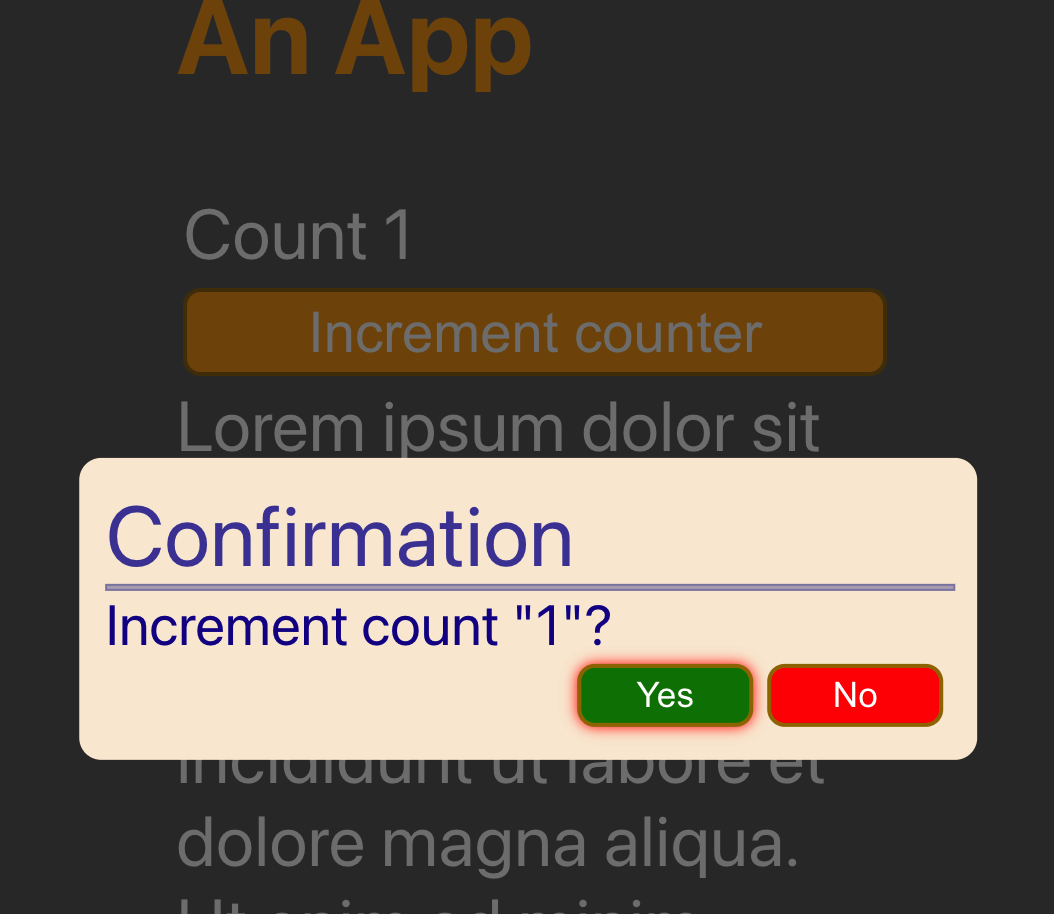
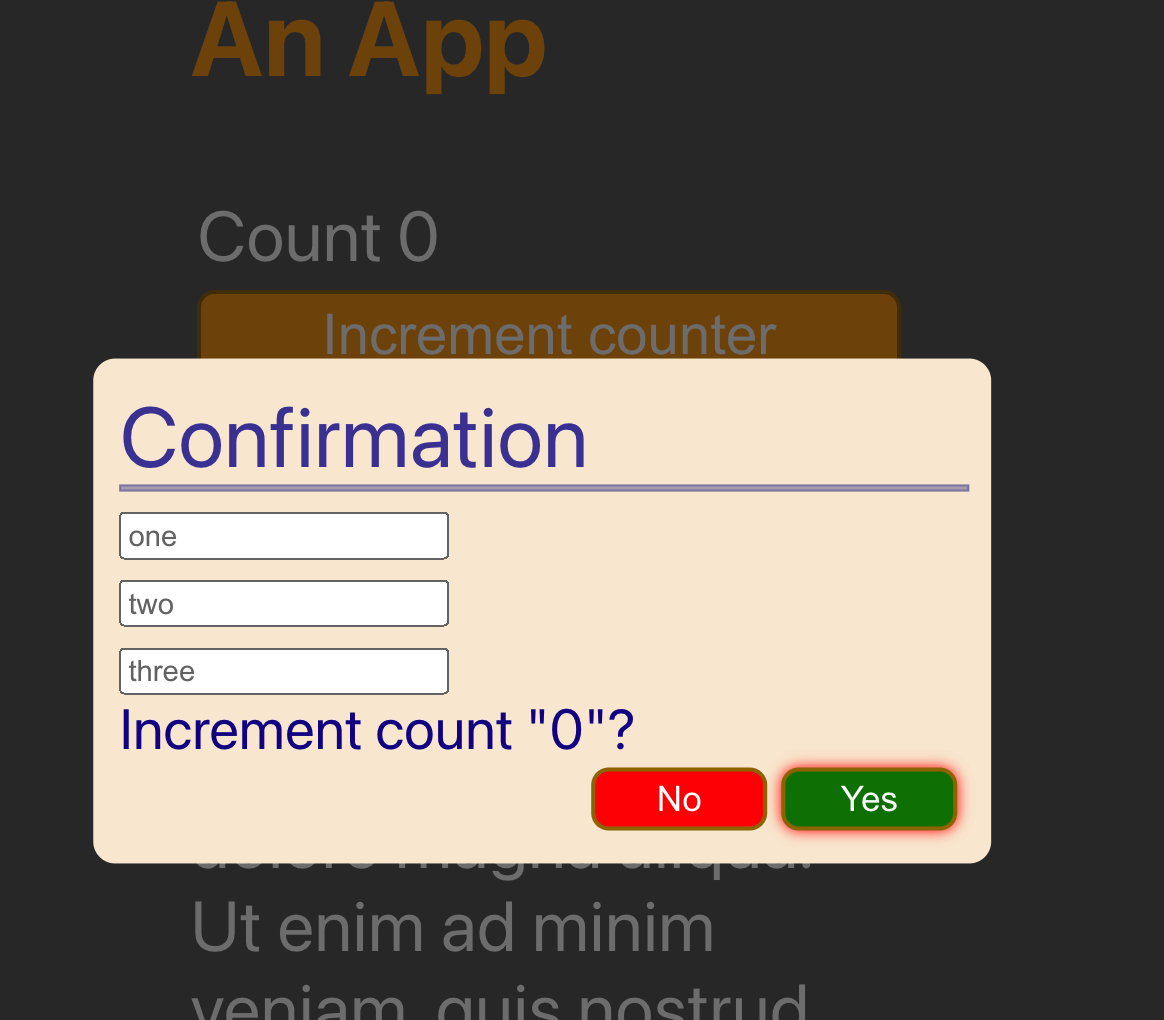
Add initial focus hook

diff --git a/src/handlers/trapFocusInComponent.js b/src/handlers/trapFocusInComponent.js
@@ -1,25 +1,34 @@
+/**
+ * Collect array of ordered focusable child elements
+ * @param ref
+ * @returns {*}
+ */
+const queryFocusableElements = (ref) => {
+    // Core data: collect ordered focusable child elements
+    const { current: rootElement } = ref;
+    const query = 'a[href], button:not([disabled]), textarea, input, select';
 
-// Based on https://dev.to/mohitkyadav/how-to-trap-focus-in-react-3in8
-// Call from onKeyDown on root of modal, passing a ref to that root
+    return rootElement.querySelectorAll(query);
+}
+
+/**
+ * Side-effect: trap focus to focusable members of the given event's subtree.
+ *
+ * Based on https://dev.to/mohitkyadav/how-to-trap-focus-in-react-3in8
+ * Call from onKeyDown on root of modal, passing a ref to that root
+ * @param event
+ * @param refFocusTrap
+ */
 const trapFocusInComponent = (event, refFocusTrap) => {
     // No tab, no interest
     if (event.key !== 'Tab') return;
 
-    // Initial housekeeping ...
+    // Get first and last elements
+    const focusableElements = queryFocusableElements(refFocusTrap);
+    if (focusableElements.length < 1) return;
 
-    // Core data: collect ordered focusable child elements
-    const { current: rootElement } = refFocusTrap;
-    const query = 'a[href], button:not([disabled]), textarea, input, select';
-
-    const focusableElements = rootElement.querySelectorAll(query);
-    const { length: elementCount } = focusableElements;
-
-    // Maybe there are no focusable elements?
-    if (elementCount === 0) return
-
-    // Capture first and last elements of ordered list (each could be same element)
-    const firstElement = focusableElements[0]
-    const lastElement = focusableElements[elementCount - 1]
+    const firstElement = focusableElements[0];
+    const lastElement = focusableElements[focusableElements.length - 1];
 
     const { shiftKey: backwardDirection } = event;
     const forwardDirection = !backwardDirection;
@@ -44,5 +53,5 @@ const trapFocusInComponent = (event, refFocusTrap) => {
         event.preventDefault();
     }
 }
-
+export { trapFocusInComponent, queryFocusableElements };
 export default trapFocusInComponent;

diff --git a/src/ConfirmationModal/ConfirmationModalImpl.jsx b/src/ConfirmationModal/ConfirmationModalImpl.jsx
@@ -1,10 +1,11 @@
-import React, { useEffect, useRef } from "react";
+import React, { useRef } from "react";
 import styled from "styled-components";
 import PropTypes from 'prop-types';
 import {CM_CENTER_CENTER, CM_TOP_CENTER, CM_TOP_LEFT, CM_TOP_RIGHT} from "./index";
 import useEscapeKey from "../hooks/useEscapeKey";
 import useOutsideClick from "../hooks/useOutsideClick";
-import trapFocusInComponent from "../handlers/trapFocusInComponent";
+import { trapFocusInComponent } from "../handlers/trapFocusInComponent";
+import useInitialFocus from "../hooks/useInitialFocus";
 
 // These are private components
 
@@ -113,12 +114,7 @@ export default function ConfirmationModalImpl(props) {
     useOutsideClick(sendNo, ref);
 
     const refModalTrap = useRef(null);
-
-    // Wiring to set initial focus on a component after each visible render
-    const refInitFocus = useRef(null);
-    useEffect(()=>{
-        if (show) refInitFocus.current?.focus();
-    }, [show]);
+    useInitialFocus(show, ref, true);
 
     return (
         <Model show={show} onKeyDown={(e) => {trapFocusInComponent(e, refModalTrap);}} ref={refModalTrap}>
@@ -127,8 +123,8 @@ export default function ConfirmationModalImpl(props) {
                 <HBar/>
                 <Slot>{detailText}</Slot>
                 <ButtonBar>
-                    <Button ref={refInitFocus} onClick={sendYes} primary={true}>Yes</Button>
                     <Button onClick={sendNo} primary={false}>No</Button>
+                    <Button onClick={sendYes} primary={true}>Yes</Button>
                 </ButtonBar>
             </Container>
         </Model>

diff --git a/src/hooks/useInitialFocus.jsx b/src/hooks/useInitialFocus.jsx
@@ -1,0 +1,25 @@
+import {useEffect} from "react";
+import {queryFocusableElements} from "../handlers/trapFocusInComponent";
+import PropTypes from "prop-types";
+
+const useInitialFocus = (show, ref, wantLast = true) => {
+    useEffect(() => {
+        if (!show) return;
+
+        const focusableElements = queryFocusableElements(ref);
+        if (focusableElements.length < 1) return;
+
+        const focusElement = wantLast
+            ? focusableElements[focusableElements.length - 1]
+            : focusableElements[0];
+        focusElement.focus();
+    }, [show, ref, wantLast]);
+}
+
+useInitialFocus.propTyoes = {
+    show: PropTypes.bool.isRequired,
+    ref: PropTypes.shape({}).isRequired,
+    wantLast: PropTypes.bool.isRequired,
+}
+
+export default useInitialFocus;

diff --git a/src/App.jsx b/src/App.jsx
@@ -77,6 +77,12 @@ function App() {
                 headerText="Confirmation"
                 handleClose={hideModal}
                 openPos={Pos.CM_CENTER_CENTER}>
+                <input type="text" placeholder="one"/>
+                <br/>
+                <input type="text" placeholder="two"/>
+                <br/>
+                <input type="text" placeholder="three"/>
+                <br/>
                 {`Increment count "${count}"?`}
             </ConfirmationModal>
         </>

diff --git a/README.md b/README.md
@@ -6,7 +6,10 @@ across tab and back-tab keypresses.
 
 ### Initial Focus Screen Capture
 A back-tab here would move focus to the last focusable control ('No'). A forward tab on that control 
-would wrap the focus back to the first focuable control ('Yes')
+would wrap the focus back to the first focuable control ('Yes').
+
+A custom hook, `useIntialFocus` sets the initial focus to eitehr the first or the last focuable
+element, according to its `wantLawt` parameter.
 
 ![doc/modal.png](doc/modal.png)
 
